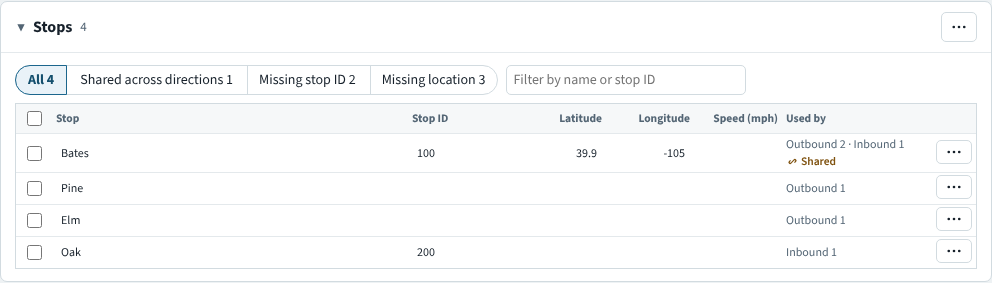
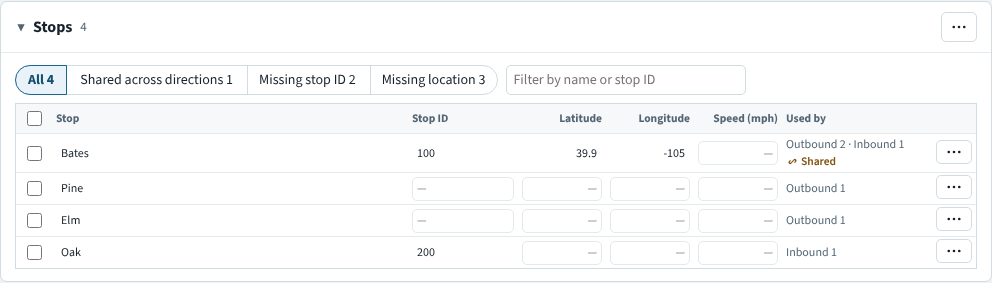
Stops drawer: the Trips table style, and a dash in empty fields
The drawer's fields read as cell text in compact rows, with a border on
hover and focus, as in the Route stops table and the Trips times. Empty
fields in the drawer and the table show "—" in a faint box, so a blank
stop ID or location stays visible as a field to fill.

Verified: pnpm typecheck; pnpm test (1775); pnpm build; route-stops-table,
route-stops, route-stop-locations and route-stop-wiring specs (21 passed,
1 skipped screenshot test); screenshots refreshed. Full browser suite
skipped: styles and placeholders of the two stop editors only.

Claude-Session: https://claude.ai/code/session_01JhBjbRWiyFNPDnznibsSDn

diff --git a/src/ui/route/PatternStopsDrawer.tsx b/src/ui/route/PatternStopsDrawer.tsx
@@ -281,7 +281,7 @@ export const PatternStopsDrawer = forwardRef<PatternStopsHandle, { service: Patt
   function locationCells(key: string, label: string) {
     if (!showLocations) return null;
     const invalid = textErrors(key).length > 0 || findings.some((item) => item.entityId === key.split(':')[1] && item.ruleId.startsWith('stopLocation.'));
-    return LOCATION_FIELDS.map(({ field, label: fieldLabel }) => <td key={field} className="pattern-stops-location"><input className="pattern-stops-code" inputMode="decimal" value={locationValue(key, field)} aria-label={`${fieldLabel}, ${label}`} aria-invalid={invalid} disabled={busy} onChange={(event) => updateLocation(key, field, event.target.value)} onPaste={(event) => { if (pasteLocations(key, field, event.clipboardData.getData('text/plain'))) event.preventDefault(); }} /></td>);
+    return LOCATION_FIELDS.map(({ field, label: fieldLabel }) => <td key={field} className="pattern-stops-location"><input className="pattern-stops-code" placeholder="—" inputMode="decimal" value={locationValue(key, field)} aria-label={`${fieldLabel}, ${label}`} aria-invalid={invalid} disabled={busy} onChange={(event) => updateLocation(key, field, event.target.value)} onPaste={(event) => { if (pasteLocations(key, field, event.clipboardData.getData('text/plain'))) event.preventDefault(); }} /></td>);
   }
 
   /** Decision 0085 item 7: the rows of this pattern, matched against the file by stop ID, then by a name found once on each side. */
@@ -376,7 +376,7 @@ export const PatternStopsDrawer = forwardRef<PatternStopsHandle, { service: Patt
           const timepointLabel = `${node?.name || 'Untitled node'}${points.filter((other) => other.nodeId === point.nodeId).length > 1 ? ` (point ${index + 1})` : ''}`;
           const pointErrors = [...new Set([...messages(findings, point.id), ...textErrors(`point:${point.id}`)])];
           return <Fragment key={point.id}>
-            <tr className="pattern-stops-timepoint"><th scope="row" colSpan={1}><span className="pattern-stops-timepoint__name"><span className="pattern-stops-timepoint__mark" aria-hidden="true" />{node?.name || 'Untitled node'}</span></th><td><input className="pattern-stops-code" value={draft.codes[point.id] ?? ''} aria-label={`Timepoint stop ID, ${timepointLabel}`} disabled={busy} onChange={(event) => updateCode(point.id, event.target.value)} /></td>{locationCells(`point:${point.id}`, `timepoint ${timepointLabel}`)}<td colSpan={3} /></tr>
+            <tr className="pattern-stops-timepoint"><th scope="row" colSpan={1}><span className="pattern-stops-timepoint__name"><span className="pattern-stops-timepoint__mark" aria-hidden="true" />{node?.name || 'Untitled node'}</span></th><td><input className="pattern-stops-code" placeholder="—" value={draft.codes[point.id] ?? ''} aria-label={`Timepoint stop ID, ${timepointLabel}`} disabled={busy} onChange={(event) => updateCode(point.id, event.target.value)} /></td>{locationCells(`point:${point.id}`, `timepoint ${timepointLabel}`)}<td colSpan={3} /></tr>
             {pointErrors.length > 0 && <tr className="pattern-stops-error pattern-stops-error--timepoint"><td colSpan={columns}><span className="field-error">{pointErrors.join(' ')}</span></td></tr>}
             {index < points.length - 1 && segment.map((placement, position) => {
               const stop = stopById.get(placement.stopId);
@@ -389,7 +389,7 @@ export const PatternStopsDrawer = forwardRef<PatternStopsHandle, { service: Patt
               const isNew = !savedStopIds.has(placement.stopId);
               return <Fragment key={placement.id}><tr className={moved?.id === placement.id ? `pattern-stops-stop row-moved row-moved--${moved.tick % 2}` : 'pattern-stops-stop'}>
                 <td><div className="pattern-stops-name"><input ref={(element) => { if (element) nameInputs.current.set(placement.id, element); else nameInputs.current.delete(placement.id); }} value={stop?.name ?? ''} placeholder="Stop name" list={isNew ? listId : undefined} aria-label={`Stop name, ${label}`} aria-invalid={errors.length > 0} aria-describedby={errorId} disabled={busy} onChange={(event) => updateStop(placement.stopId, { name: event.target.value })} onBlur={(event) => linkIfSuggested(placement.id, placement.stopId, event.target.value)} onKeyDown={(event) => { if (event.key === 'Enter') linkIfSuggested(placement.id, placement.stopId, event.currentTarget.value); }} /></div></td>
-                <td><input className="pattern-stops-code" value={stop?.stopCode ?? ''} aria-label={`Stop ID, ${label}`} aria-invalid={errors.length > 0} aria-describedby={errorId} disabled={busy} onChange={(event) => updateStop(placement.stopId, { stopCode: event.target.value || undefined })} onBlur={(event) => linkIfSavedCode(placement.id, placement.stopId, event.target.value)} onKeyDown={(event) => { if (event.key === 'Enter') linkIfSavedCode(placement.id, placement.stopId, event.currentTarget.value); }} /></td>
+                <td><input className="pattern-stops-code" placeholder="—" value={stop?.stopCode ?? ''} aria-label={`Stop ID, ${label}`} aria-invalid={errors.length > 0} aria-describedby={errorId} disabled={busy} onChange={(event) => updateStop(placement.stopId, { stopCode: event.target.value || undefined })} onBlur={(event) => linkIfSavedCode(placement.id, placement.stopId, event.target.value)} onKeyDown={(event) => { if (event.key === 'Enter') linkIfSavedCode(placement.id, placement.stopId, event.currentTarget.value); }} /></td>
                 {locationCells(`stop:${placement.stopId}`, label)}
                 <td className="pattern-stops-shared">{uses > 1 && <span className="pattern-stops-shared__mark" role="img" aria-label={`Used by ${uses} patterns of this route`} title={`Used by ${uses} patterns of this route`}><LinkIcon />{uses}</span>}</td>
                 <td className="pattern-stops-order"><button type="button" className="icon-button" disabled={busy || first} aria-label={`Move ${label} up`} title="Move up" onClick={() => moveStop(index, position, -1)}>↑</button><button type="button" className="icon-button" disabled={busy || last} aria-label={`Move ${label} down`} title="Move down" onClick={() => moveStop(index, position, 1)}>↓</button></td>

diff --git a/src/ui/route/RouteStopsSurface.tsx b/src/ui/route/RouteStopsSurface.tsx
@@ -225,7 +225,7 @@ export const RouteStopsSurface = forwardRef<RouteStopsHandle, { service: RouteSt
           const errorId = errors.length ? `route-stop-error-${stop.id}` : undefined;
           return [<tr key={stop.id} className={!changed.includes(stop) ? undefined : 'route-stops__row--edited'}>
             <td className="route-stops__check"><input type="checkbox" checked={selected.includes(stop.id)} aria-label={`Select ${label}`} onChange={(event) => setSelected((current) => event.target.checked ? [...current, stop.id] : current.filter((id) => id !== stop.id))} /></td>
-            {FIELDS.map((item) => <td key={item.field} className={item.numeric ? 'route-stops__number' : undefined}><input value={value(saved, item.field)} inputMode={item.numeric ? 'decimal' : undefined} aria-label={`${item.label}, ${label}`} aria-invalid={errors.length > 0} aria-describedby={errorId} disabled={readOnly} onChange={(event) => update(stop.id, item.field, event.target.value)} onPaste={(event) => { if (paste(stop.id, item.field, event.clipboardData.getData('text/plain'))) event.preventDefault(); }} /></td>)}
+            {FIELDS.map((item) => <td key={item.field} className={item.numeric ? 'route-stops__number' : undefined}><input value={value(saved, item.field)} inputMode={item.numeric ? 'decimal' : undefined} placeholder={item.field === 'name' ? 'Stop name' : '—'} aria-label={`${item.label}, ${label}`} aria-invalid={errors.length > 0} aria-describedby={errorId} disabled={readOnly} onChange={(event) => update(stop.id, item.field, event.target.value)} onPaste={(event) => { if (paste(stop.id, item.field, event.clipboardData.getData('text/plain'))) event.preventDefault(); }} /></td>)}
             <td className="route-stops__used"><span>{usedBy(stop.id)}</span>{shared(stop.id) && <span className="route-stops__shared" role="img" aria-label="Used by more than one direction" title="Used by more than one direction"><LinkIcon /><span aria-hidden="true">Shared</span></span>}</td>
             <td className="route-stops__actions"><MenuButton label="Actions" menuLabel={`Actions for ${label}`} triggerAriaLabel={`Actions for ${label}`} disabled={readOnly} groups={[{ items: [
               { id: 'split-stop', label: 'Split by direction…', disabled: Boolean(structuralBlock) || !shared(stop.id), title: structuralBlock ?? (!shared(stop.id) ? 'Only one direction uses this stop' : undefined), onSelect: () => setDialog({ kind: 'split', stopId: stop.id }) },

diff --git a/src/ui/styles/route.css b/src/ui/styles/route.css
@@ -107,6 +107,14 @@
 .pattern-stops-name { display: flex; align-items: center; gap: var(--space-1); min-width: 0; padding-left: var(--space-3); }
 .pattern-stops-name input { flex: 1 1 auto; min-width: 0; }
 .pattern-stops-code { width: 100%; min-width: 0; font-variant-numeric: tabular-nums; }
+/* As in the Route stops table and the Trips times: fields read as cell text in compact rows; the border shows on hover and focus. */
+.pattern-stops-table td { padding-top: 2px; padding-bottom: 2px; }
+.pattern-stops-table input { min-height: 24px; padding: 1px var(--space-1); border-color: transparent; background: transparent; font-size: var(--font-size-label); }
+.pattern-stops-table input:hover:not(:disabled) { border-color: var(--color-border); background: var(--color-surface); }
+.pattern-stops-table input:focus { border-color: var(--color-accent); background: var(--color-surface); }
+.pattern-stops-table input[aria-invalid="true"] { border-color: var(--color-danger); }
+.pattern-stops-table input:placeholder-shown { border-color: var(--color-border-soft); }
+.pattern-stops-table .icon-button { min-height: 24px; height: 24px; }
 .pattern-stops-order { white-space: nowrap; }
 /* A stop used by several patterns of the Route: a link mark and the count, in its own narrow column so the name field keeps its width. */
 .pattern-stops-table td.pattern-stops-shared { padding-right: 0; padding-left: var(--space-1); }
@@ -142,6 +150,7 @@
 .route-stops-table input:not([type="checkbox"]):hover:not(:disabled) { border-color: var(--color-border); background: var(--color-surface); }
 .route-stops-table input:not([type="checkbox"]):focus { border-color: var(--color-accent); background: var(--color-surface); }
 .route-stops-table input[aria-invalid="true"] { border-color: var(--color-danger); }
+.route-stops-table input:not([type="checkbox"]):placeholder-shown { border-color: var(--color-border-soft); }
 /* The selection column matches the Trips table's (trips-workflow.css). */
 .route-stops-table .route-stops__check { width: 36px; padding: var(--space-1) 7px; text-align: center; }
 .route-stops-table .route-stops__check input { width: 15px; min-height: 15px; vertical-align: middle; }
